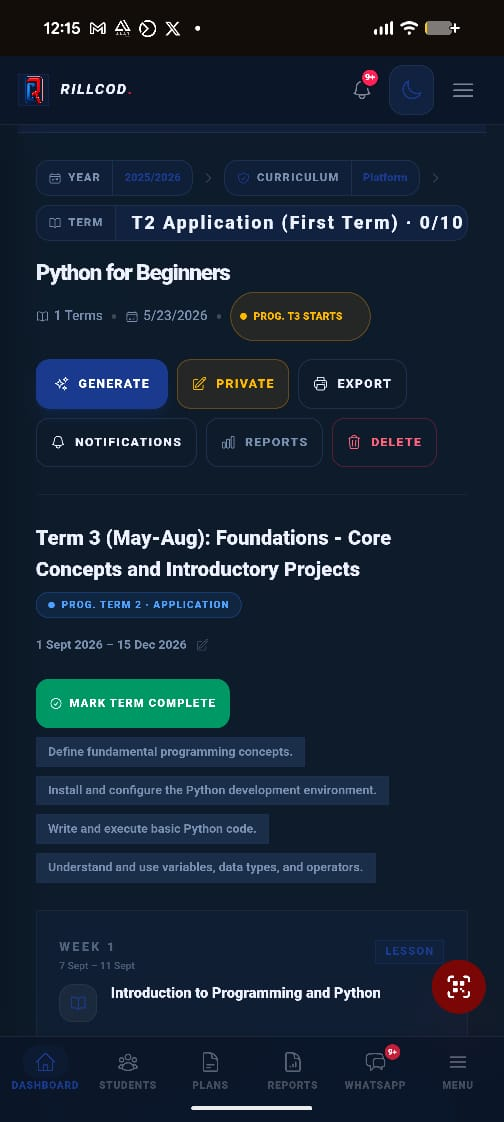
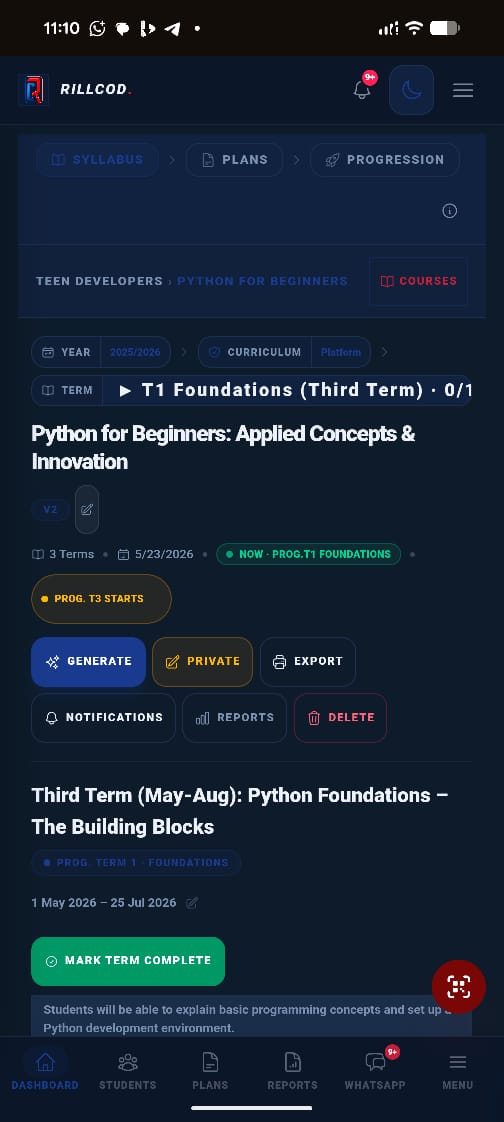
style(curriculum): fix version pencil button stretching and enhance active header buttons density for mobile screens

diff --git a/src/app/dashboard/curriculum/page.tsx b/src/app/dashboard/curriculum/page.tsx
@@ -3685,30 +3685,30 @@ export default function CurriculumPage() {
 
                     {/* Row 2: title + version + meta */}
                     <div className="space-y-2 relative z-10">
-                      <div className="flex flex-wrap items-center gap-2 sm:gap-3">
-                        <h1 className="text-xl sm:text-2xl font-black leading-tight tracking-tighter text-foreground">
-                          {curriculum.content.course_title}
-                        </h1>
-                        <div className="flex items-center gap-1">
-                          <span className="inline-flex items-center gap-1 px-2.5 py-0.5 rounded-full text-[9px] sm:text-[10px] font-black uppercase tracking-widest bg-primary/10 border border-primary/20 text-primary">
-                            v{curriculum.version}
+                      <div className="flex flex-wrap items-center gap-x-2 gap-y-1">
+                        <h1 className="text-lg sm:text-2xl font-black leading-tight tracking-tighter text-foreground inline-flex items-center gap-2 flex-wrap">
+                          <span>{curriculum.content.course_title}</span>
+                          <span className="inline-flex items-center gap-1.5 shrink-0 select-none">
+                            <span className="inline-flex items-center justify-center px-2 py-0.5 rounded-md text-[9px] sm:text-[10px] font-black uppercase tracking-widest bg-primary/10 border border-primary/20 text-primary h-6">
+                              v{curriculum.version}
+                            </span>
+                            {canModifyCurriculum && (
+                              <button
+                                onClick={() => {
+                                  setEditVersionNumber(curriculum.version);
+                                  setEditVersionDesc(curriculum.content.description ?? '');
+                                  setShowEditVersionModal(true);
+                                }}
+                                className="inline-flex items-center justify-center w-6 h-6 rounded-md border border-white/10 hover:border-primary/40 bg-white/5 hover:bg-primary/10 text-muted-foreground hover:text-primary transition-all shrink-0 cursor-pointer"
+                                title="Edit version details"
+                              >
+                                <PencilIcon className="w-3.5 h-3.5" />
+                              </button>
+                            )}
                           </span>
-                          {canModifyCurriculum && (
-                            <button
-                              onClick={() => {
-                                setEditVersionNumber(curriculum.version);
-                                setEditVersionDesc(curriculum.content.description ?? '');
-                                setShowEditVersionModal(true);
-                              }}
-                              className="p-1 rounded-lg border border-white/10 hover:border-primary/40 bg-white/5 hover:bg-primary/10 text-muted-foreground hover:text-primary transition-all shrink-0 cursor-pointer"
-                              title="Edit version details"
-                            >
-                              <PencilIcon className="w-3 h-3" />
-                            </button>
-                          )}
-                        </div>
+                        </h1>
                         {curriculum.content.description && (
-                          <span className="text-[10px] sm:text-xs font-semibold text-muted-foreground bg-white/5 px-2.5 py-0.5 border border-white/5 rounded-lg max-w-[200px] sm:max-w-none truncate" title={curriculum.content.description}>
+                          <span className="text-[10px] sm:text-xs font-semibold text-muted-foreground bg-white/5 px-2.5 py-0.5 border border-white/5 rounded-lg max-w-[200px] sm:max-w-none truncate h-6 inline-flex items-center select-none" title={curriculum.content.description}>
                             {curriculum.content.description}
                           </span>
                         )}
@@ -3812,7 +3812,7 @@ export default function CurriculumPage() {
                       {canModifyCurriculum && (
                         <button
                           onClick={openGenerateModal}
-                          className="flex items-center gap-1.5 px-3 py-1.5 text-[10px] sm:text-[11px] font-black uppercase tracking-widest bg-primary hover:bg-primary/90 text-primary-foreground transition-all rounded-lg shadow-lg shadow-primary/20"
+                          className="flex items-center justify-center gap-1.5 px-2.5 py-1 text-[9px] sm:px-3.5 sm:py-1.5 sm:text-[10px] font-black uppercase tracking-widest bg-primary hover:bg-primary/90 text-primary-foreground transition-all rounded-lg shadow-lg shadow-primary/20 shrink-0 cursor-pointer"
                         >
                           <SparklesIcon className="w-3.5 h-3.5" /> Generate
                         </button>
@@ -3822,7 +3822,7 @@ export default function CurriculumPage() {
                           <button
                             onClick={() => togglePublish(false)}
                             disabled={publishing}
-                            className="flex items-center gap-1.5 px-2.5 py-1.5 text-[10px] sm:text-[11px] font-black uppercase tracking-widest bg-amber-500/10 border border-amber-500/30 text-amber-400 hover:bg-amber-500/20 transition-all rounded-lg"
+                            className="flex items-center justify-center gap-1.5 px-2.5 py-1 text-[9px] sm:px-3 sm:py-1.5 sm:text-[10px] font-black uppercase tracking-widest bg-amber-500/10 border border-amber-500/30 text-amber-400 hover:bg-amber-500/20 transition-all rounded-lg shrink-0 cursor-pointer"
                             title="Make private"
                           >
                             {publishing ? <ArrowPathIcon className="w-3.5 h-3.5 animate-spin" /> : <PencilIcon className="w-3.5 h-3.5" />}
@@ -3833,7 +3833,7 @@ export default function CurriculumPage() {
                           <button
                             onClick={() => togglePublish(true)}
                             disabled={publishing}
-                            className="flex items-center gap-1.5 px-2.5 py-1.5 text-[10px] sm:text-[11px] font-black uppercase tracking-widest bg-emerald-600 hover:bg-emerald-500 text-white transition-all rounded-lg"
+                            className="flex items-center justify-center gap-1.5 px-2.5 py-1 text-[9px] sm:px-3 sm:py-1.5 sm:text-[10px] font-black uppercase tracking-widest bg-emerald-600 hover:bg-emerald-500 text-white transition-all rounded-lg shrink-0 cursor-pointer"
                             title="Share with school"
                           >
                             {publishing ? <ArrowPathIcon className="w-3.5 h-3.5 animate-spin" /> : <CheckCircleIcon className="w-3.5 h-3.5" />}
@@ -3847,7 +3847,7 @@ export default function CurriculumPage() {
                         <button
                           onClick={() => handleClone(curriculum.id)}
                           disabled={cloning}
-                          className="flex items-center gap-1.5 px-3 py-1.5 text-[10px] sm:text-[11px] font-black uppercase tracking-widest bg-emerald-600 hover:bg-emerald-500 text-white transition-all rounded-lg shadow-lg shadow-emerald-600/20 disabled:opacity-50"
+                          className="flex items-center justify-center gap-1.5 px-2.5 py-1 text-[9px] sm:px-3 sm:py-1.5 sm:text-[10px] bg-emerald-600 hover:bg-emerald-500 text-white transition-all rounded-lg shadow-lg shadow-emerald-600/20 disabled:opacity-50 shrink-0 cursor-pointer"
                           title="Copy this platform template to your school so you can customise it"
                         >
                           {cloning ? <ArrowPathIcon className="w-3.5 h-3.5 animate-spin" /> : <DocumentDuplicateIcon className="w-3.5 h-3.5" />}
@@ -3857,7 +3857,7 @@ export default function CurriculumPage() {
                       )}
                       <button
                         onClick={openPrintOptions}
-                        className="flex items-center gap-1.5 px-2.5 py-1.5 text-[10px] sm:text-[11px] font-black uppercase tracking-widest border border-border text-foreground hover:bg-muted/50 transition-colors rounded-lg"
+                        className="flex items-center justify-center gap-1.5 px-2.5 py-1 text-[9px] sm:px-3 sm:py-1.5 sm:text-[10px] border border-border text-foreground hover:bg-muted/50 transition-colors rounded-lg shrink-0 cursor-pointer"
                       >
                         <PrinterIcon className="w-3.5 h-3.5" />
                         <span className="hidden sm:inline">Print / Export</span>
@@ -3869,14 +3869,14 @@ export default function CurriculumPage() {
                             setNotifSettingsDraft(curriculum.content.notification_settings ?? { mode: 'all', channels: ['whatsapp'] });
                             setShowNotifSettings(true);
                           }}
-                          className="flex items-center gap-1.5 px-2.5 py-1.5 text-[10px] sm:text-[11px] font-black uppercase tracking-widest border border-border text-foreground hover:bg-muted/50 transition-colors rounded-lg"
+                          className="flex items-center justify-center gap-1.5 px-2.5 py-1 text-[9px] sm:px-3 sm:py-1.5 sm:text-[10px] border border-border text-foreground hover:bg-muted/50 transition-colors rounded-lg shrink-0 cursor-pointer"
                         >
                           <BellIcon className="w-3.5 h-3.5" /> Notifications
                         </button>
                       )}
                       <Link
                         href="/dashboard/curriculum/progress"
-                        className="flex items-center gap-1.5 px-2.5 py-1.5 text-[10px] sm:text-[11px] font-black uppercase tracking-widest text-muted-foreground hover:text-foreground border border-border hover:bg-muted/50 transition-colors rounded-lg"
+                        className="flex items-center justify-center gap-1.5 px-2.5 py-1 text-[9px] sm:px-3 sm:py-1.5 sm:text-[10px] text-muted-foreground hover:text-foreground border border-border hover:bg-muted/50 transition-colors rounded-lg shrink-0"
                       >
                         <ChartBarIcon className="w-3.5 h-3.5" /> Reports
                       </Link>
@@ -3884,7 +3884,7 @@ export default function CurriculumPage() {
                         <button
                           onClick={handleDeleteCurriculum}
                           disabled={deleting}
-                          className="flex items-center gap-1.5 px-2.5 py-1.5 text-[10px] sm:text-[11px] font-black uppercase tracking-widest text-rose-400 border border-rose-500/30 hover:bg-rose-500/10 transition-all rounded-lg disabled:opacity-50"
+                          className="flex items-center justify-center gap-1.5 px-2.5 py-1 text-[9px] sm:px-3 sm:py-1.5 sm:text-[10px] text-rose-400 border border-rose-500/30 hover:bg-rose-500/10 transition-all rounded-lg disabled:opacity-50 shrink-0 cursor-pointer"
                         >
                           {deleting ? <ArrowPathIcon className="w-3.5 h-3.5 animate-spin" /> : <TrashIcon className="w-3.5 h-3.5" />}
                           Delete
